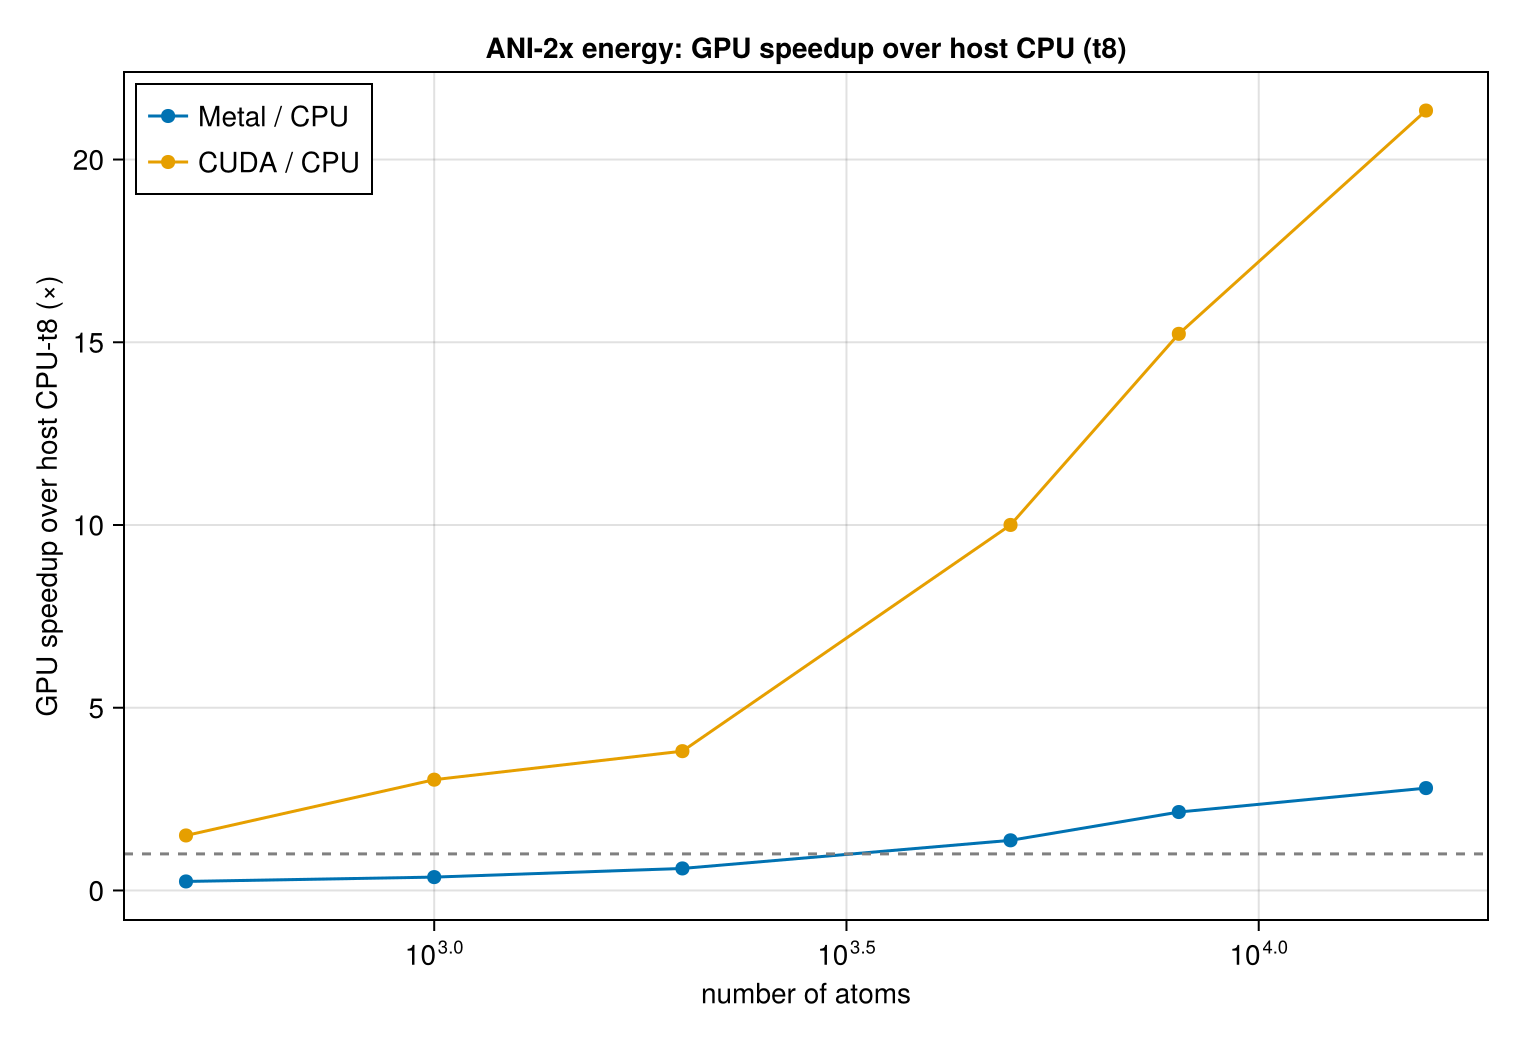
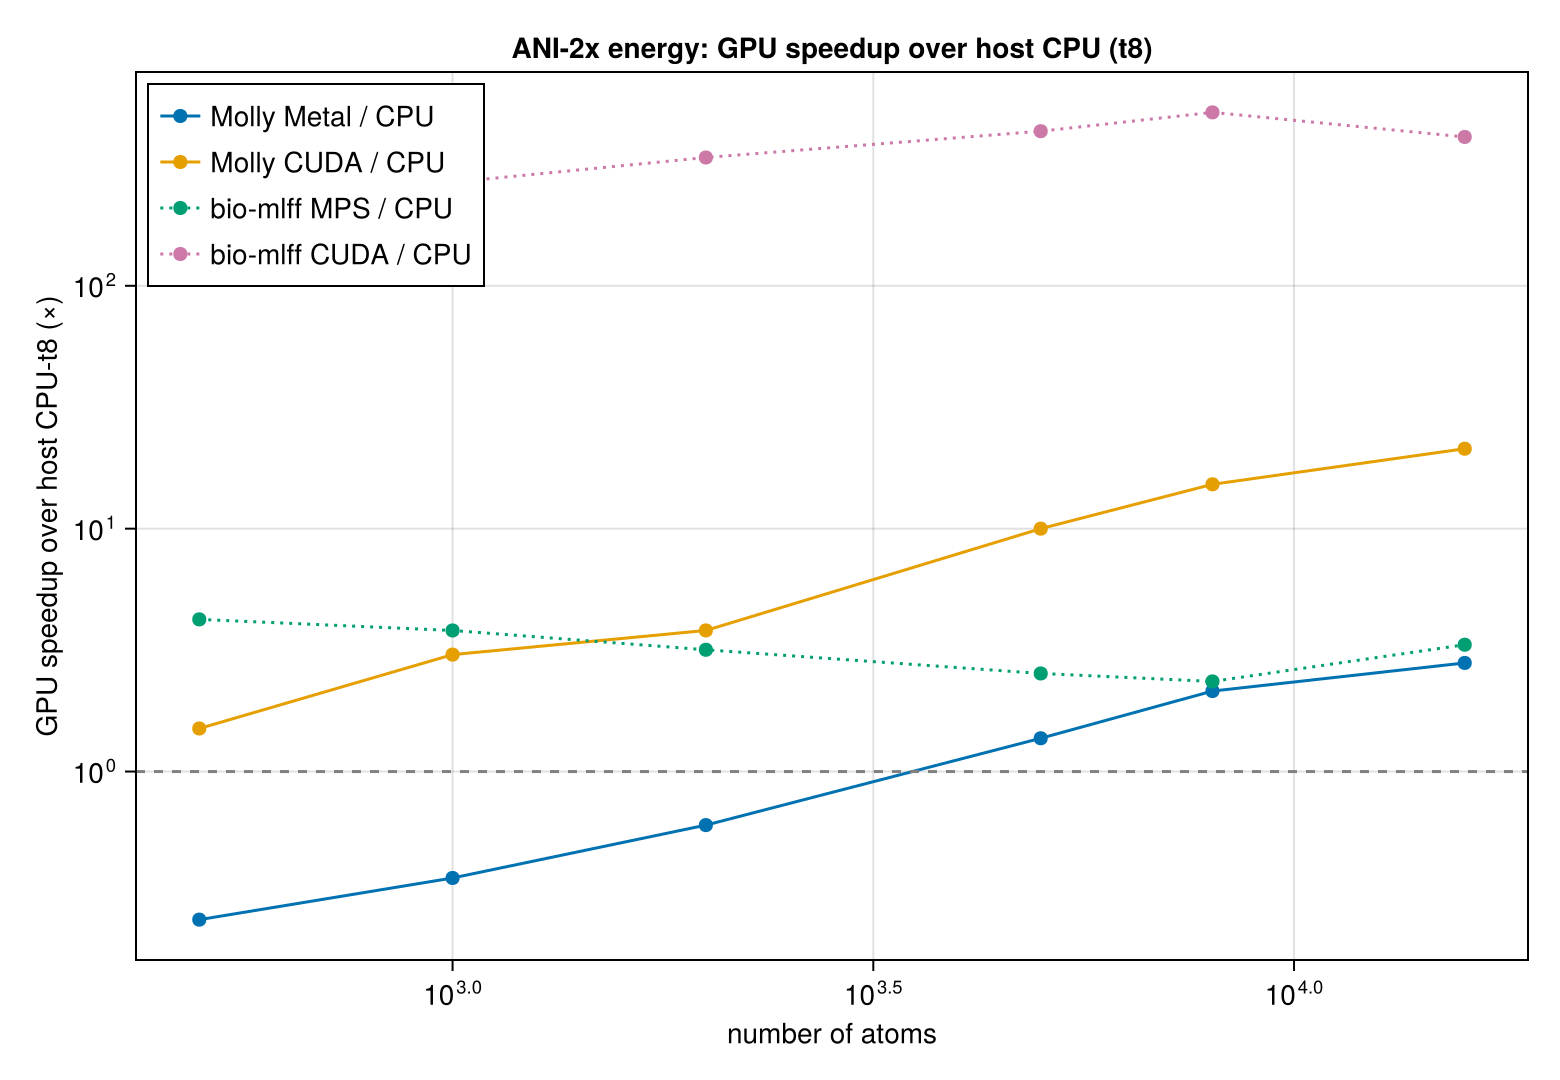
ANI: add bio-mlff (MPS + CUDA) to the GPU-speedup plots; log y-axis (PR #260)
The energy/forces GPU-speedup figures now overlay Molly Metal/CUDA and bio-mlff MPS/CUDA, each
over its own host CPU-t8 (Metal/MPS = Apple M3, CUDA = RTX 5080). Switched to a log y-axis so the
~300x bio-mlff-CUDA ratio and the ~1-20x Molly ratios are all visible. Measured a bio-mlff CPU-t8
baseline on the cyclops host for the bio-mlff CUDA line. Caption notes the big bio-mlff-CUDA ratio
is partly its slow XLA-CPU baseline on broadwell.

diff --git a/benchmark/ani_benchmarks.md b/benchmark/ani_benchmarks.md
@@ -200,11 +200,14 @@ above overlay all five series (Molly CPU/Metal/CUDA + TorchANI CPU/CUDA) on one 
 CPU/Metal + TorchANI CPU are Apple Silicon while Molly CUDA + TorchANI CUDA are the RTX 5080 host, so
 read the scaling shape rather than the absolute cross-machine level.
 
-**GPU speedup over host CPU-t8, both backends in one view** (Metal's baseline is Apple Silicon,
-CUDA's is the cyclops host — each line is GPU-vs-its-own-host, so compare the scaling shape):
+**GPU speedup over host CPU-t8** (Molly Metal/CUDA + bio-mlff MPS/CUDA, log y-axis). Each line is a
+backend's speedup over its OWN host CPU-t8 — Metal/MPS baseline is the Apple M3, CUDA baseline is the
+RTX 5080 box — so it is a within-machine GPU-vs-CPU ratio; compare scaling shape, not cross-machine.
+bio-mlff CUDA's very large ratio (~300×) is partly that its XLA-CPU baseline on the broadwell host is
+slow, not GPU brilliance alone.
 
-![Energy speedup — Metal + CUDA](images/energy_speedup.png)
-![Forces speedup — Metal + CUDA](images/forces_speedup.png)
+![Energy speedup — Molly + bio-mlff, Metal/MPS + CUDA](images/energy_speedup.png)
+![Forces speedup — Molly + bio-mlff, Metal/MPS + CUDA](images/forces_speedup.png)
 
 ---
 
